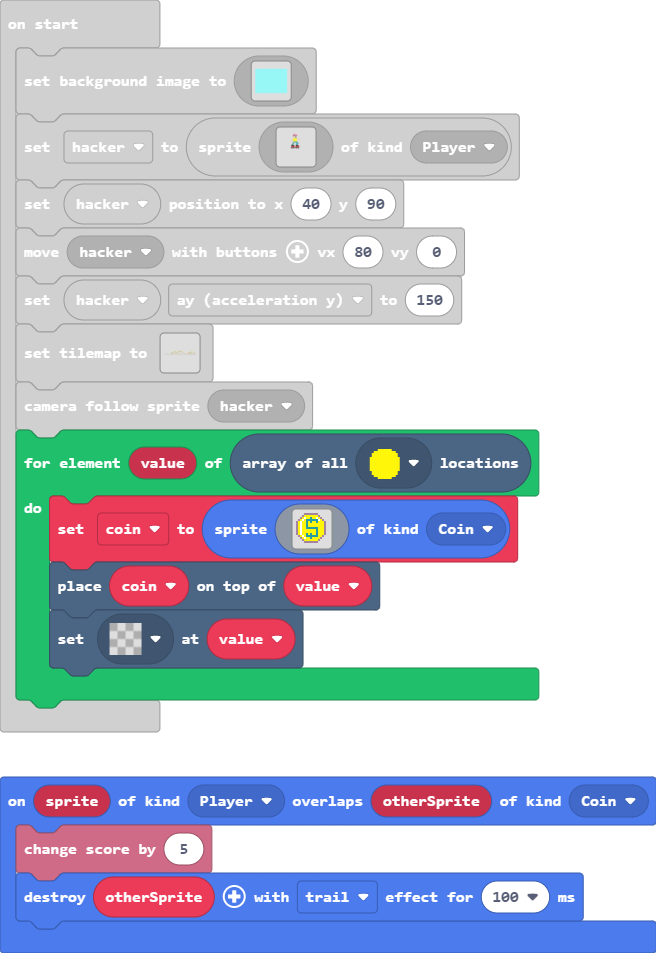
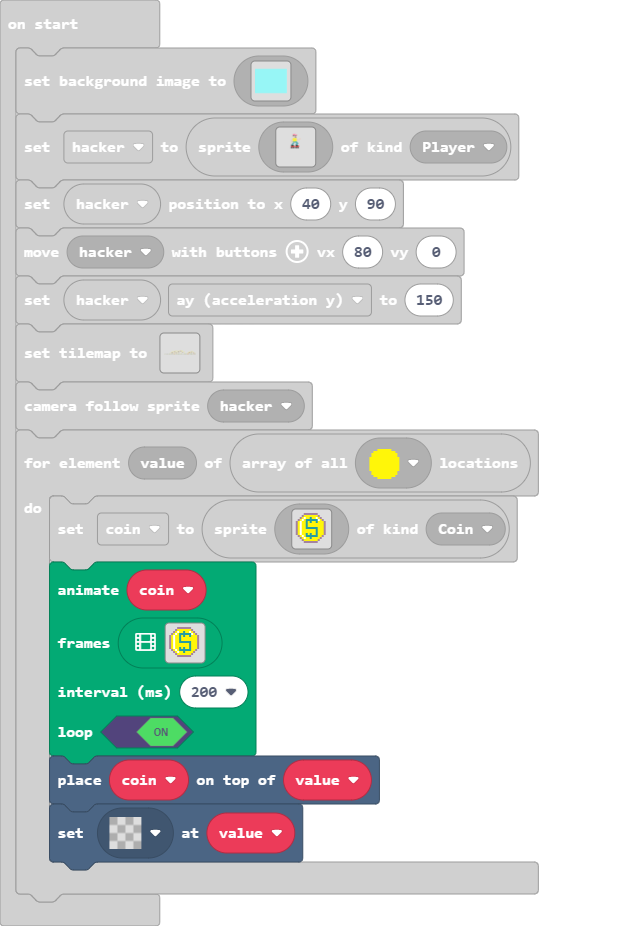
coins animation added

diff --git a/images.g.ts b/images.g.ts
@@ -1370,24 +1370,6 @@ e e e e b b b b b b e e
 9999999999999999999999999999999999999999999999999999999999999999999999999999999999999999999999999999999999999999999999999999999999999999999999999999999999999999
 9999999999999999999999999999999999999999999999999999999999999999999999999999999999999999999999999999999999999999999999999999999999999999999999999999999999999999
 `;
-            case "image22":return img`
-. . . . . . . . . . . . . . . . 
-. . . . . . . . . . . . . . . . 
-. . . . . . . . . . . . . . . . 
-. . . . . . . . . . . . . . . . 
-. . . . . . . . . . . . . . . . 
-. . . . . . . . . . . . . . . . 
-. . . . . . . . . . . . . . . . 
-. . . . . . . . . . . . . . . . 
-. . . . . . . . . . . . . . . . 
-. . . . . . . . . . . . . . . . 
-. . . . . . . . . . . . . . . . 
-. . . . . . . . . . . . . . . . 
-. . . . . . . . . . . . . . . . 
-. . . . . . . . . . . . . . . . 
-. . . . . . . . . . . . . . . . 
-. . . . . . . . . . . . . . . . 
-`;
             case "image21":
             case "coin":return img`
 . . . . b b b b b b b . . . . . 
@@ -2596,6 +2578,195 @@ b 5 1 5 5 6 5 6 5 5 6 5 5 5 b .
 ................................................................................
 ................................................................................
 ................................................................................
+`];
+            case "coinAnima":
+            case "anim5":return [img`
+. . . . b b b b b b b . . . . . 
+. . . b 5 5 5 5 5 5 5 b . . . . 
+. . b 5 1 5 5 6 5 5 1 5 b . . . 
+. b 5 1 5 6 6 6 6 6 6 1 5 b . . 
+b 5 1 5 5 6 5 6 5 5 6 5 5 5 b . 
+b 5 1 5 5 6 5 5 5 5 5 5 5 5 b . 
+b 5 1 5 5 6 5 5 5 5 5 5 5 5 b . 
+b 5 1 5 5 6 6 6 6 6 6 5 5 5 b . 
+b 5 1 5 5 5 5 5 5 5 6 5 5 5 b . 
+b 5 1 5 5 5 5 5 5 5 6 5 5 5 b . 
+b 5 1 5 5 6 5 6 5 5 6 5 5 5 b . 
+. b 5 1 5 6 6 6 6 6 6 5 5 b . . 
+. . b 5 1 5 5 6 5 5 5 5 b . . . 
+. . . b 5 5 5 5 5 5 5 b . . . . 
+. . . . b b b b b b b . . . . . 
+. . . . . . . . . . . . . . . . 
+`, img`
+. . . . b b b b b b b . . . . . 
+. . . . b 5 5 5 5 5 b . . . . . 
+. . . b 5 5 5 6 5 5 5 b . . . . 
+. . b 5 1 6 6 6 6 6 1 5 b . . . 
+. b 5 1 5 6 5 6 5 5 5 5 5 b . . 
+. b 5 1 5 6 5 5 5 5 5 5 5 b . . 
+. b 5 1 5 6 5 5 5 5 5 5 5 b . . 
+. b 5 1 5 6 6 6 6 6 5 5 5 b . . 
+. b 5 1 5 5 5 5 5 6 5 5 5 b . . 
+. b 5 1 5 5 5 5 5 6 5 5 5 b . . 
+. b 5 1 5 6 5 6 5 6 5 5 5 b . . 
+. . b 5 1 6 6 6 6 6 5 5 b . . . 
+. . . b 5 5 5 6 5 5 5 b . . . . 
+. . . . b 5 5 5 5 5 b . . . . . 
+. . . . b b b b b b b . . . . . 
+. . . . . . . . . . . . . . . . 
+`, img`
+. . . . . b b b b b . . . . . . 
+. . . . . b 5 5 5 b . . . . . . 
+. . . . b 5 5 6 5 5 b . . . . . 
+. . . b 5 1 6 6 6 1 5 b . . . . 
+. . b 5 1 5 6 6 5 5 5 5 b . . . 
+. . b 5 1 5 6 5 5 5 5 5 b . . . 
+. . b 5 1 5 6 5 5 5 5 5 b . . . 
+. . b 5 1 5 6 6 6 5 5 5 b . . . 
+. . b 5 1 5 5 5 6 5 5 5 b . . . 
+. . b 5 1 5 5 5 6 5 5 5 b . . . 
+. . b 5 1 5 6 6 6 5 5 5 b . . . 
+. . . b 5 1 6 6 6 5 5 b . . . . 
+. . . . b 5 5 6 5 5 b . . . . . 
+. . . . . b 5 5 5 b . . . . . . 
+. . . . . b b b b b . . . . . . 
+. . . . . . . . . . . . . . . . 
+`, img`
+. . . . . . b b b . . . . . . . 
+. . . . . . b 5 b . . . . . . . 
+. . . . . b 5 5 5 b . . . . . . 
+. . . . b 5 1 6 1 5 b . . . . . 
+. . . b 5 1 5 5 5 5 5 b . . . . 
+. . . b 5 1 5 5 5 5 5 b . . . . 
+. . . b 5 1 5 5 5 5 5 b . . . . 
+. . . b 5 1 5 6 5 5 5 b . . . . 
+. . . b 5 1 5 6 5 5 5 b . . . . 
+. . . b 5 1 5 6 5 5 5 b . . . . 
+. . . b 5 1 5 6 5 5 5 b . . . . 
+. . . . b 5 1 6 5 5 b . . . . . 
+. . . . . b 5 5 5 b . . . . . . 
+. . . . . . b 5 b . . . . . . . 
+. . . . . . b b b . . . . . . . 
+. . . . . . . . . . . . . . . . 
+`, img`
+. . . . . . . . b . . . . . . . 
+. . . . . . . . b . . . . . . . 
+. . . . . . . b 5 . . . . . . . 
+. . . . . . b 5 1 b . . . . . . 
+. . . . . b 5 1 5 5 b . . . . . 
+. . . . . b 5 1 5 5 b . . . . . 
+. . . . . b 5 1 5 5 b . . . . . 
+. . . . . b 5 1 5 5 b . . . . . 
+. . . . . b 5 1 5 5 b . . . . . 
+. . . . . b 5 1 5 5 b . . . . . 
+. . . . . b 5 1 5 5 b . . . . . 
+. . . . . . b 5 1 b . . . . . . 
+. . . . . . . b 5 . . . . . . . 
+. . . . . . . . b . . . . . . . 
+. . . . . . . . b . . . . . . . 
+. . . . . . . . . . . . . . . . 
+`, img`
+. . . . . . . . b . . . . . . . 
+. . . . . . . . b . . . . . . . 
+. . . . . . . . b . . . . . . . 
+. . . . . . . b 5 b . . . . . . 
+. . . . . . b 5 1 5 b . . . . . 
+. . . . . . b 5 1 5 b . . . . . 
+. . . . . . b 5 1 5 b . . . . . 
+. . . . . . b 5 1 5 b . . . . . 
+. . . . . . b 5 1 5 b . . . . . 
+. . . . . . b 5 1 5 b . . . . . 
+. . . . . . b 5 1 5 b . . . . . 
+. . . . . . . b 5 b . . . . . . 
+. . . . . . . . b . . . . . . . 
+. . . . . . . . b . . . . . . . 
+. . . . . . . . b . . . . . . . 
+. . . . . . . . . . . . . . . . 
+`, img`
+. . . . . . . . b . . . . . . . 
+. . . . . . . . b . . . . . . . 
+. . . . . . . b 5 . . . . . . . 
+. . . . . . b 5 1 b . . . . . . 
+. . . . . b 5 1 5 5 b . . . . . 
+. . . . . b 5 1 5 5 b . . . . . 
+. . . . . b 5 1 5 5 b . . . . . 
+. . . . . b 5 1 5 5 b . . . . . 
+. . . . . b 5 1 5 5 b . . . . . 
+. . . . . b 5 1 5 5 b . . . . . 
+. . . . . b 5 1 5 5 b . . . . . 
+. . . . . . b 5 1 b . . . . . . 
+. . . . . . . b 5 . . . . . . . 
+. . . . . . . . b . . . . . . . 
+. . . . . . . . b . . . . . . . 
+. . . . . . . . . . . . . . . . 
+`, img`
+. . . . . . b b b . . . . . . . 
+. . . . . . b 5 b . . . . . . . 
+. . . . . b 5 5 5 b . . . . . . 
+. . . . b 5 1 6 1 5 b . . . . . 
+. . . b 5 1 5 5 5 5 5 b . . . . 
+. . . b 5 1 5 5 5 5 5 b . . . . 
+. . . b 5 1 5 5 5 5 5 b . . . . 
+. . . b 5 1 5 6 5 5 5 b . . . . 
+. . . b 5 1 5 6 5 5 5 b . . . . 
+. . . b 5 1 5 6 5 5 5 b . . . . 
+. . . b 5 1 5 6 5 5 5 b . . . . 
+. . . . b 5 1 6 5 5 b . . . . . 
+. . . . . b 5 5 5 b . . . . . . 
+. . . . . . b 5 b . . . . . . . 
+. . . . . . b b b . . . . . . . 
+. . . . . . . . . . . . . . . . 
+`, img`
+. . . . . b b b b b . . . . . . 
+. . . . . b 5 5 5 b . . . . . . 
+. . . . b 5 5 6 5 5 b . . . . . 
+. . . b 5 1 6 6 6 1 5 b . . . . 
+. . b 5 1 5 6 6 5 5 5 5 b . . . 
+. . b 5 1 5 6 5 5 5 5 5 b . . . 
+. . b 5 1 5 6 5 5 5 5 5 b . . . 
+. . b 5 1 5 6 6 6 5 5 5 b . . . 
+. . b 5 1 5 5 5 6 5 5 5 b . . . 
+. . b 5 1 5 5 5 6 5 5 5 b . . . 
+. . b 5 1 5 6 6 6 5 5 5 b . . . 
+. . . b 5 1 6 6 6 5 5 b . . . . 
+. . . . b 5 5 6 5 5 b . . . . . 
+. . . . . b 5 5 5 b . . . . . . 
+. . . . . b b b b b . . . . . . 
+. . . . . . . . . . . . . . . . 
+`, img`
+. . . . b b b b b b b . . . . . 
+. . . . b 5 5 5 5 5 b . . . . . 
+. . . b 5 5 5 6 5 5 5 b . . . . 
+. . b 5 1 6 6 6 6 6 1 5 b . . . 
+. b 5 1 5 6 5 6 5 5 5 5 5 b . . 
+. b 5 1 5 6 5 5 5 5 5 5 5 b . . 
+. b 5 1 5 6 5 5 5 5 5 5 5 b . . 
+. b 5 1 5 6 6 6 6 6 5 5 5 b . . 
+. b 5 1 5 5 5 5 5 6 5 5 5 b . . 
+. b 5 1 5 5 5 5 5 6 5 5 5 b . . 
+. b 5 1 5 6 5 6 5 6 5 5 5 b . . 
+. . b 5 1 6 6 6 6 6 5 5 b . . . 
+. . . b 5 5 5 6 5 5 5 b . . . . 
+. . . . b 5 5 5 5 5 b . . . . . 
+. . . . b b b b b b b . . . . . 
+. . . . . . . . . . . . . . . . 
+`, img`
+. . . . b b b b b b b . . . . . 
+. . . b 5 5 5 5 5 5 5 b . . . . 
+. . b 5 1 5 5 6 5 5 1 5 b . . . 
+. b 5 1 5 6 6 6 6 6 6 1 5 b . . 
+b 5 1 5 5 6 5 6 5 5 6 5 5 5 b . 
+b 5 1 5 5 6 5 5 5 5 5 5 5 5 b . 
+b 5 1 5 5 6 5 5 5 5 5 5 5 5 b . 
+b 5 1 5 5 6 6 6 6 6 6 5 5 5 b . 
+b 5 1 5 5 5 5 5 5 5 6 5 5 5 b . 
+b 5 1 5 5 5 5 5 5 5 6 5 5 5 b . 
+b 5 1 5 5 6 5 6 5 5 6 5 5 5 b . 
+. b 5 1 5 6 6 6 6 6 6 5 5 b . . 
+. . b 5 1 5 5 6 5 5 5 5 b . . . 
+. . . b 5 5 5 5 5 5 5 b . . . . 
+. . . . b b b b b b b . . . . . 
+. . . . . . . . . . . . . . . . 
 `];
         }
         return null;

diff --git a/main.ts b/main.ts
@@ -170,6 +170,12 @@ tiles.setTilemap(tilemap`level1`)
 scene.cameraFollowSprite(hacker)
 for (let value of tiles.getTilesByType(assets.tile`tileCoinRepl`)) {
     coin = sprites.create(assets.image`coin`, SpriteKind.Coin)
+    animation.runImageAnimation(
+    coin,
+    assets.animation`coinAnima`,
+    200,
+    true
+    )
     tiles.placeOnTile(coin, value)
     tiles.setTileAt(value, assets.tile`transparency16`)
 }
